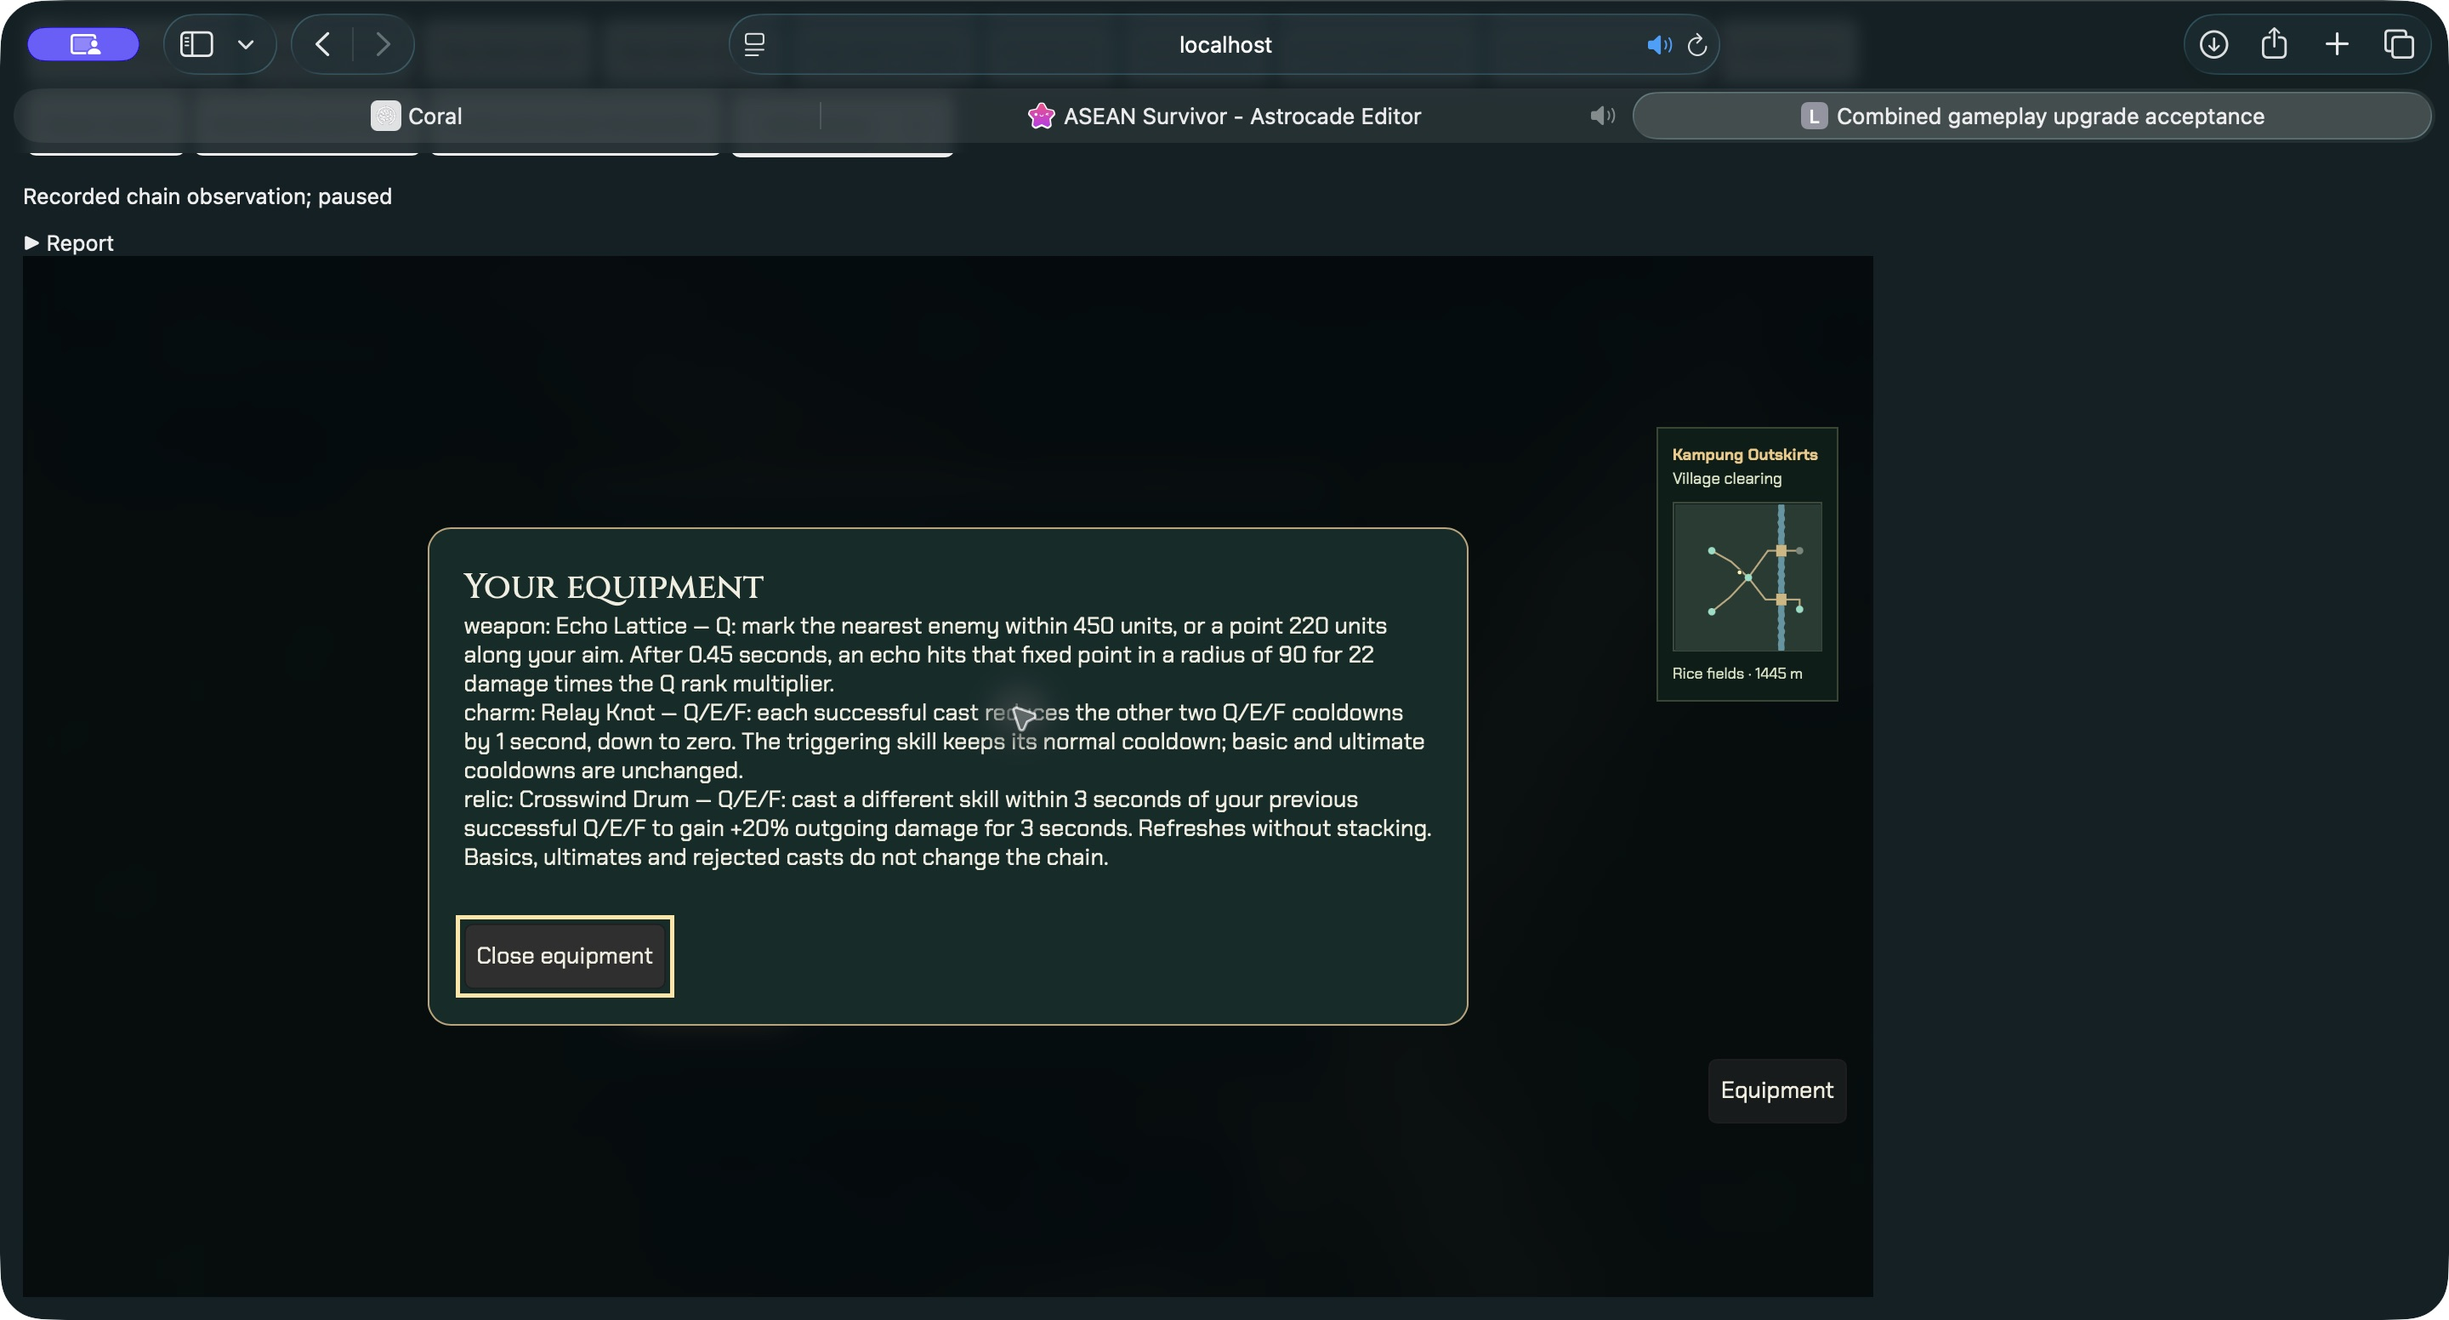
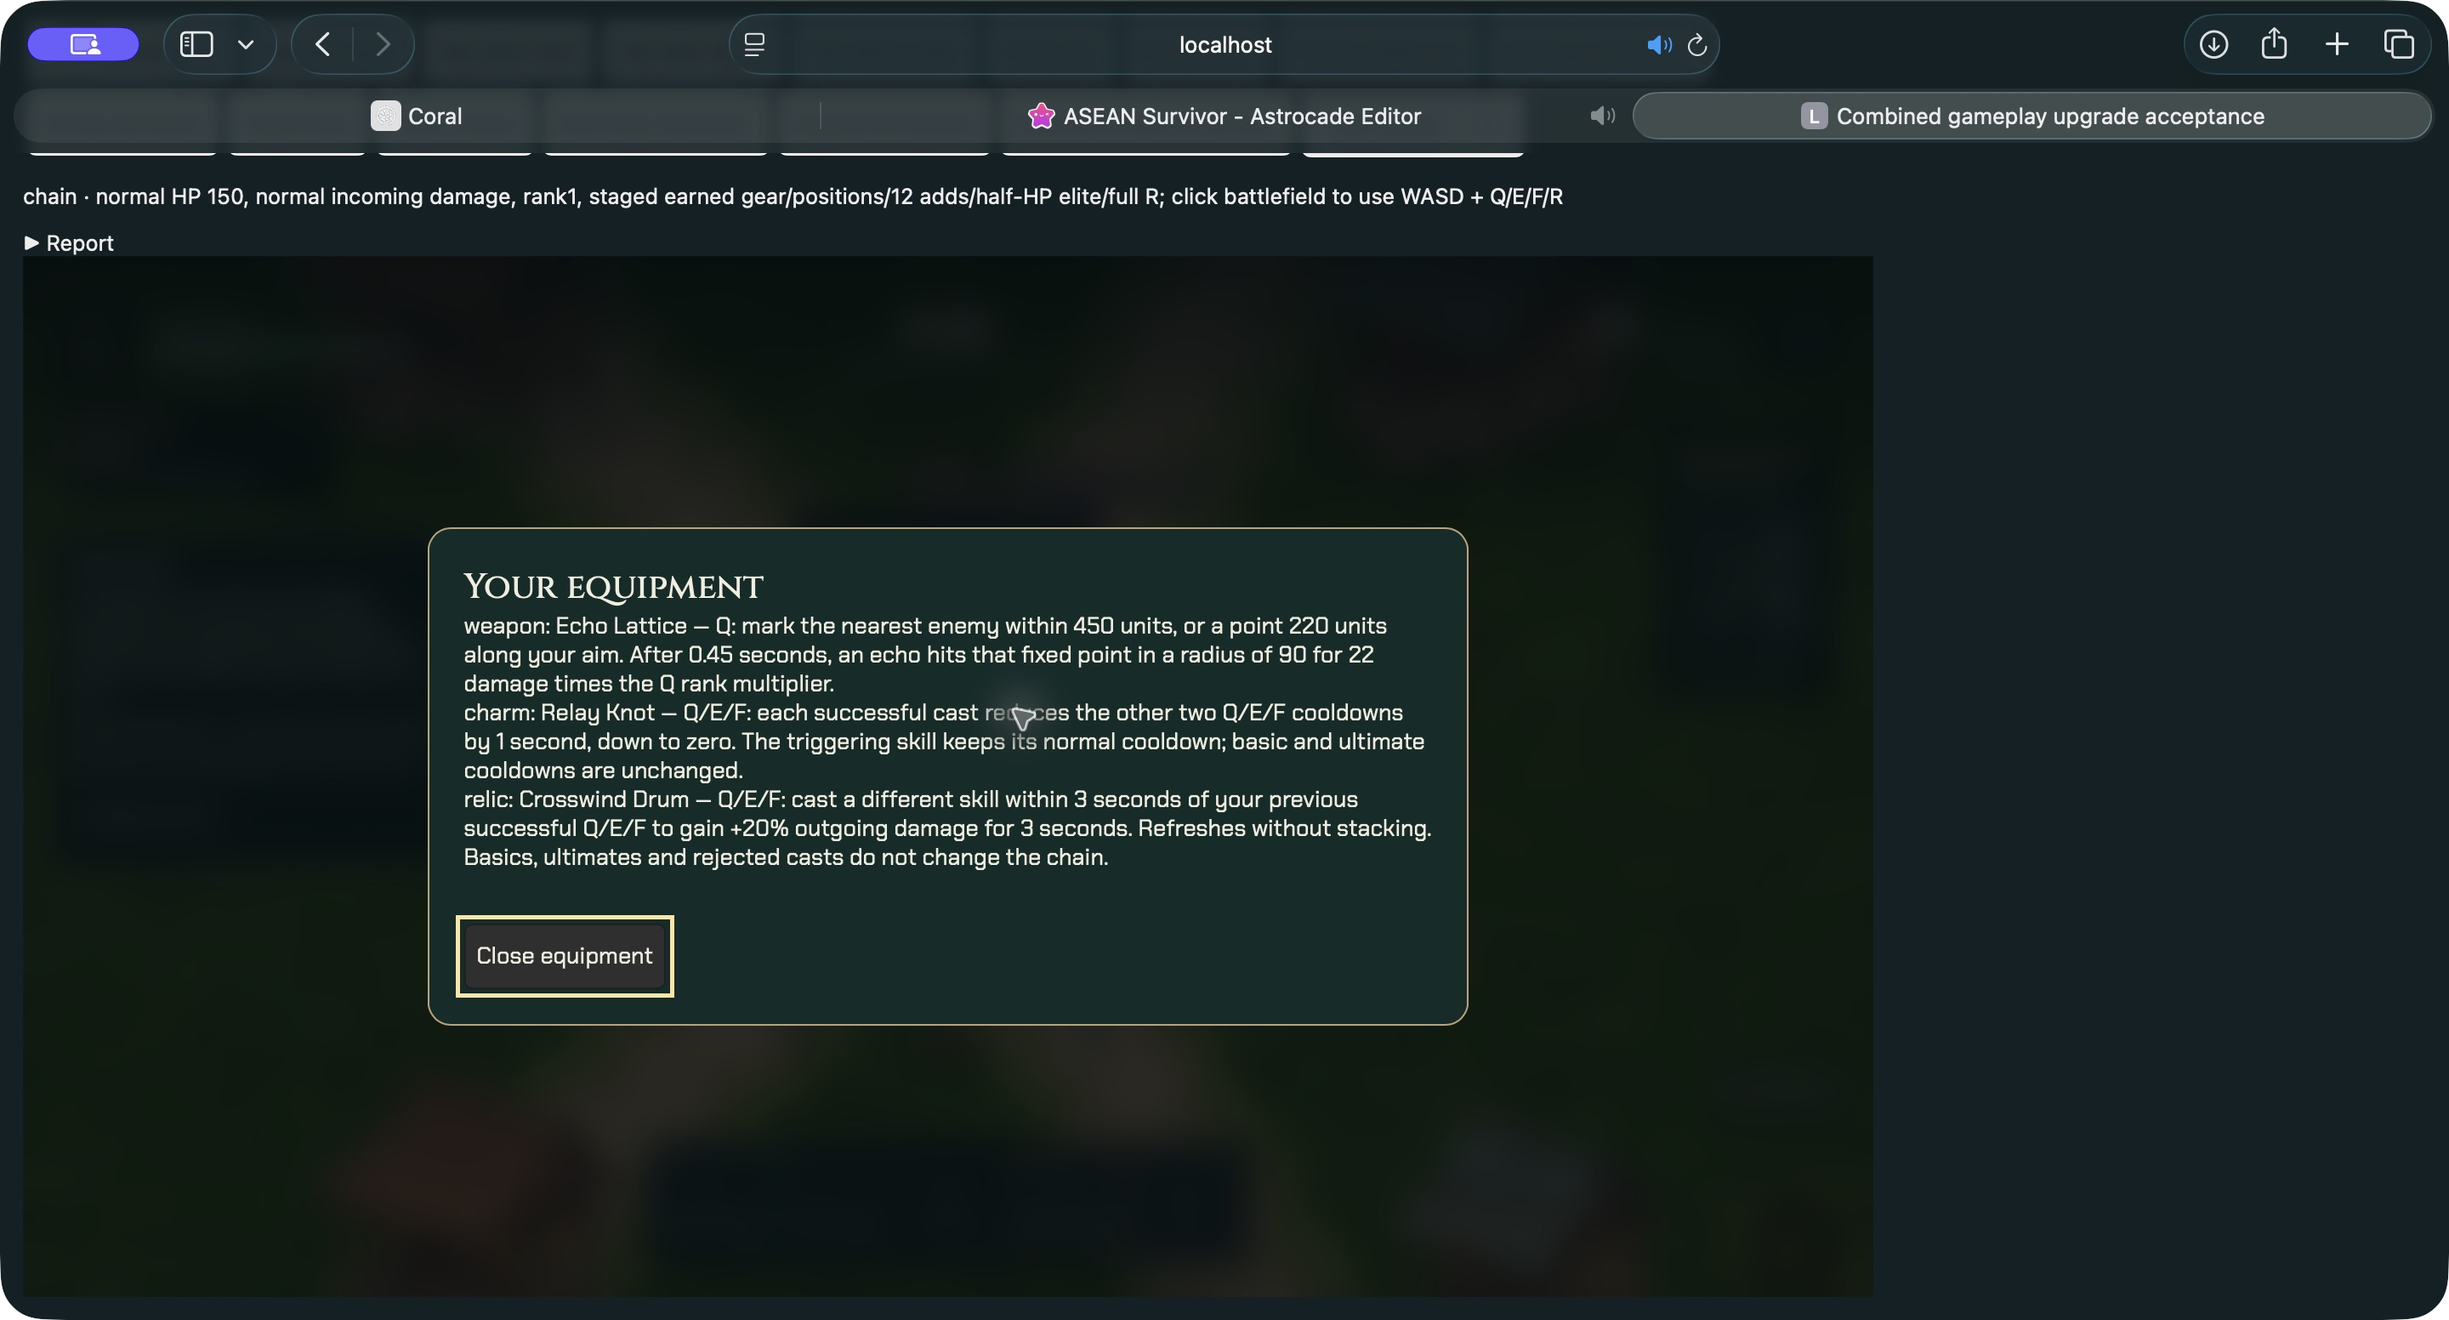
Keep active encounter controls behind modal dialogs

diff --git a/tests/gameplay-upgrade.js b/tests/gameplay-upgrade.js
@@ -26,7 +26,8 @@ function supportCompletion(){
   for(const slot of [1,2,4]){const name=slot===1?'chain':'zoning',g=build(name),event=g.encounters.hunt;event.status='available';delete event.defeated;begin('hunt');const elite=g.enemies.find(e=>e.encounter==='hunt');Object.assign(g.p,{x:0,y:0});Object.assign(elite,{x:slot===1?400:slot===2?Math.cos(Math.PI/10)*100:0,y:slot===1?0:slot===2?Math.sin(Math.PI/10)*100:-100,hp:1,stun:999});g.enemies=[elite];cast(slot);if(slot===1)g.projs=[];if(slot===2)g.orbit=null;if(slot===4)g.zones=[];step(14);check('Actual item support '+slot+' kills owned elite and completes hunt',elite.dead&&event.status==='completed',{dead:elite.dead,status:event.status});step(5);check('Repeated event updates keep exactly one consumed hunt reward',g.rewards.filter(r=>r.event==='hunt').length===1&&g.rewards.find(r=>r.event==='hunt').consumed);}
   const g=start();reward('rescue');choose('echoLattice');reward('hunt',.5);choose('bountySeal');const event=g.encounters.hunt;event.status='available';delete event.defeated;begin('hunt');const elite=g.enemies.find(e=>e.encounter==='hunt');Object.assign(g.p,{x:0,y:0,hp:50});Object.assign(elite,{x:400,y:0,hp:1,stun:999});g.enemies=[elite];g.ult=0;cast(1);g.projs=[];step(12);check('Owned item-origin elite death completes event without Bounty heal/bonus charge',event.status==='completed'&&g.p.hp===50&&g.ult===1,{hp:g.p.hp,ult:g.ult,status:event.status});
 }
-function orderAndCleanup(){const g=build('zoning'),event=g.encounters.rescue;event.status='available';begin('rescue');const elite=g.enemies.find(e=>e.elite);g.enemies=[elite];Object.assign(g.p,{x:0,y:0});Object.assign(elite,{x:220,y:0,skillT:0,hp:10000,maxHp:10000,dmg:0});step();check('Equipped rescue elite starts with charge warning',elite.attack==='charge'&&elite.windup>0);cast(2);cast(3);cast(4);const time=g.t,wind=elite.windup;click('equipmentButton');step(30);check('Inspection freezes both elite warning and item pulses',g.t===time&&elite.windup===wind&&g.fx.filter(f=>f.item==='monsoonLens'&&f.life>0).length===3);click('lootClose');step();click('pauseButton');const paused=g.t;step(30);check('Pause freezes combined event and build',g.t===paused);click('resume');step();g.pending=1;rt.openLevelUp();const upgraded=g.t;step(30);check('Upgrade overlay freezes combined event and build',g.t===upgraded);click('up0');g.st.crit=0;rt.raid.enter();check('Active event blocks raid with equipped support',!g.raid);click('eventAbandon');rt.raid.enter();step();check('Raid keeps equipment and removes abandoned event hazards and support queue',!!g.raid&&g.equipment.relic==='monsoonLens'&&!g.eprojs.some(p=>p.encounter==='rescue')&&!g.fx.some(f=>f.item)&&!g.projs.some(p=>p.origin==='item'));cast(2);cast(3);cast(4);check('Same build casts all support types inside raid',g.projs.filter(p=>p.item==='forkedConduit').length===2&&g.fx.some(f=>f.item==='undertowThread')&&g.fx.filter(f=>f.item==='monsoonLens').length===3);g.raid.won=true;g.raid.outro=0;advance(.05);check('Raid exit clears newly created support',!g.raid&&!g.fx.some(f=>f.item)&&!g.projs.some(p=>p.origin==='item'));rt.toMenu();check('Menu clears old support/event actors',!g.fx.some(f=>f.item)&&!g.enemies.some(e=>e.encounter));const fresh=start();check('Fresh run restores empty slots and available events',Object.values(fresh.equipment).every(id=>id===null)&&Object.values(fresh.encounters).every(e=>e.status==='available'));}
+function overlayAbovePrompt(id){const prompt=doc.getElementById('encounterPrompt').getBoundingClientRect(),top=doc.elementFromPoint(prompt.right-5,prompt.top+prompt.height/2);check(id+' dialog paints above the active encounter prompt',doc.getElementById(id).contains(top),{topElement:top?.id||top?.tagName});}
+function orderAndCleanup(){const g=build('zoning'),event=g.encounters.rescue;event.status='available';begin('rescue');const elite=g.enemies.find(e=>e.elite);g.enemies=[elite];Object.assign(g.p,{x:0,y:0});Object.assign(elite,{x:220,y:0,skillT:0,hp:10000,maxHp:10000,dmg:0});step();check('Equipped rescue elite starts with charge warning',elite.attack==='charge'&&elite.windup>0);cast(2);cast(3);cast(4);const time=g.t,wind=elite.windup;click('equipmentButton');overlayAbovePrompt('lootPanel');step(30);check('Inspection freezes both elite warning and item pulses',g.t===time&&elite.windup===wind&&g.fx.filter(f=>f.item==='monsoonLens'&&f.life>0).length===3);click('lootClose');step();click('pauseButton');overlayAbovePrompt('pause');const paused=g.t;step(30);check('Pause freezes combined event and build',g.t===paused);click('resume');step();g.pending=1;rt.openLevelUp();overlayAbovePrompt('levelup');const upgraded=g.t;step(30);check('Upgrade overlay freezes combined event and build',g.t===upgraded);click('up0');g.st.crit=0;rt.raid.enter();check('Active event blocks raid with equipped support',!g.raid);click('eventAbandon');rt.raid.enter();step();check('Raid keeps equipment and removes abandoned event hazards and support queue',!!g.raid&&g.equipment.relic==='monsoonLens'&&!g.eprojs.some(p=>p.encounter==='rescue')&&!g.fx.some(f=>f.item)&&!g.projs.some(p=>p.origin==='item'));cast(2);cast(3);cast(4);check('Same build casts all support types inside raid',g.projs.filter(p=>p.item==='forkedConduit').length===2&&g.fx.some(f=>f.item==='undertowThread')&&g.fx.filter(f=>f.item==='monsoonLens').length===3);g.raid.won=true;g.raid.outro=0;advance(.05);check('Raid exit clears newly created support',!g.raid&&!g.fx.some(f=>f.item)&&!g.projs.some(p=>p.origin==='item'));rt.toMenu();check('Menu clears old support/event actors',!g.fx.some(f=>f.item)&&!g.enemies.some(e=>e.encounter));const fresh=start();check('Fresh run restores empty slots and available events',Object.values(fresh.equipment).every(id=>id===null)&&Object.values(fresh.encounters).every(e=>e.status==='available'));}
 function stacking(){const g=start();reward('rescue',.999);choose('quarryHammer');reward('ward',.0);choose('stillwaterBeads');reward('hunt',.5);choose('aftershockBell');Object.assign(g.p,{x:0,y:0});g.enemies=[];step(43);cast(4);g.zones=[];const e=probe(g,300,300);check('Original three-slot bonuses remain additive at165 damage',Math.abs(strike(e)-165)<.001);}
 async function layouts(){const win=frame.contentWindow;for(const width of [320,390]){frame.style.width=width+'px';frame.style.height='844px';await new Promise(resolve=>setTimeout(resolve,120));const g=build('zoning');step();for(const id of ['pauseButton','equipmentButton','sk1','sk2','sk3','sk4']){const r=doc.getElementById(id).getBoundingClientRect();check(width+' '+id+' remains inside viewport with44px target',r.left>=0&&r.right<=win.innerWidth+.01&&r.top>=0&&r.bottom<=win.innerHeight+.01&&r.width>=44&&r.height>=44,{bounds:{x:r.x,y:r.y,width:r.width,height:r.height},viewport:[win.innerWidth,win.innerHeight]});}const old=g.p.x;win.dispatchEvent(new win.KeyboardEvent('keydown',{key:'d',code:'KeyD',bubbles:true}));step(4);win.dispatchEvent(new win.KeyboardEvent('keyup',{key:'d',code:'KeyD',bubbles:true}));check(width+' keyboard movement works with equipped build',g.p.x>old);const canvas=doc.querySelector('canvas'),x=win.innerWidth*.18,y=win.innerHeight*.65;canvas.dispatchEvent(new win.PointerEvent('pointerdown',{pointerId:31,pointerType:'touch',clientX:x,clientY:y,bubbles:true}));canvas.dispatchEvent(new win.PointerEvent('pointermove',{pointerId:31,pointerType:'touch',clientX:x+45,clientY:y,bubbles:true}));g.cds[3]=0;doc.getElementById('sk3').click();step(4);canvas.dispatchEvent(new win.PointerEvent('pointerup',{pointerId:31,pointerType:'touch',clientX:x+45,clientY:y,bubbles:true}));check(width+' simultaneous touch movement and F creates Undertow',g.fx.some(f=>f.item==='undertowThread'));g.paused=true;}frame.style.width='1280px';frame.style.height='720px';}
 async function readableMobile(){frame.style.width='390px';frame.style.height='844px';await new Promise(resolve=>setTimeout(resolve,120));const g=start();begin('hunt');const elite=g.enemies.find(e=>e.elite);g.enemies=[elite];Object.assign(g.p,{x:0,y:0});Object.assign(elite,{x:50,y:200,hp:elite.maxHp*.5,skillT:0});step();g.paused=true;rt.scene.update(0,0);const label=rt.scene.children.list.find(o=>o.type==='Text'&&o.visible&&o.text.includes('Briarback · Thornbound'));const screenFont=parseFloat(label.style.fontSize)*label.scaleY*rt.scene.cameras.main.zoom;check('390px elite BURST/ENRAGED label keeps12CSSpx minimum text',screenFont>=12,{screenFont,zoom:rt.scene.cameras.main.zoom,labelScale:label.scaleY,text:label.text});}

diff --git a/ui.css b/ui.css
@@ -17,7 +17,7 @@ h1,h2,h3,p{margin:0}h1,h2,h3{font-family:var(--display);font-weight:500}
 .eyebrow,.lbl{font-size:11px;font-weight:600;letter-spacing:.2em;text-transform:uppercase;color:var(--muted)}
 .eyebrow{color:var(--ember)}.eyebrow::before{content:'◆';font-size:8px;margin-right:12px}
 .sub{font-size:15px;line-height:1.7;color:var(--muted);margin:12px 0 22px;max-width:52ch}
-.ov{position:fixed;inset:0;display:grid;place-items:center;padding:24px;overflow:auto;background:rgba(3,10,13,.8);backdrop-filter:blur(12px)}
+.ov{position:fixed;inset:0;z-index:20;display:grid;place-items:center;padding:24px;overflow:auto;background:rgba(3,10,13,.8);backdrop-filter:blur(12px)}
 .card{width:100%;max-width:920px;padding:36px;background:var(--panel);border:1px solid var(--line);border-top:2px solid var(--ember);box-shadow:0 24px 100px #0008}
 .card h2{font-size:clamp(26px,4vw,40px);margin-top:12px;line-height:1.2}
 .row{display:flex;flex-wrap:wrap;gap:12px;align-items:center;margin-top:26px}

diff --git a/docs/gameplay-upgrade.md b/docs/gameplay-upgrade.md
@@ -6,13 +6,17 @@ Scope: [spec #8](https://github.com/miooor/aseansurvivor/issues/8), dependent [t
 
 Use the repository container workflow and open `/tests/gameplay-upgrade.html`. Select **Run combined checks**, keep the tab active, require PASS, then **Download report**. Reload the whole harness after source changes: a development iframe can retain an old runtime reference after HMR. The fixture uses the agreed development runtime to stage deterministic conditions, while event activation, track investigation, reward selection, skills and overlays use actual HTML controls. It introduces no production test API, dependency or artwork.
 
-The focused Safari run on 2026-11-15 passes **46/46 checks**, with no captured runtime errors: [downloaded JSON](evidence/gameplay-upgrade/combined-green.json). It combines support-item kills of an owned hunt elite by Echo, Fork and Lens, once-only completion/reward state, absence of recursive Bounty heal/bonus charge, Relay plus Crosswind damage, the original additive three-slot bonus, charge-first rescue behavior with equipped skills, inspection/pause/upgrade freezes, active-event raid arbitration, support inside raids, transition/menu/new-run cleanup, progression-save preservation, 320/390-pixel target bounds, keyboard movement and simultaneous synthetic touch movement/F casting. Individual exact item/all-hero and elite action contracts remain covered by their linked focused suites; this fixture adds the integrated seam.
+The focused Safari run on 2026-11-15 passes **49/49 checks**, with no captured runtime errors: [downloaded JSON](evidence/gameplay-upgrade/combined-green.json). It combines support-item kills of an owned hunt elite by Echo, Fork and Lens, once-only completion/reward state, absence of recursive Bounty heal/bonus charge, Relay plus Crosswind damage, the original additive three-slot bonus, charge-first rescue behavior with equipped skills, inspection/pause/upgrade freezes, active-event raid arbitration, support inside raids, transition/menu/new-run cleanup, progression-save preservation, 320/390-pixel target bounds, keyboard movement and simultaneous synthetic touch movement/F casting. Individual exact item/all-hero and elite action contracts remain covered by their linked focused suites; this fixture adds the integrated seam.
 
 Failure cases were recorded before writing the fixture. Two early runs exposed fixture timing assumptions: a fixed number of updates does not imply an exact elapsed simulation duration because casts apply cosmetic hit-stop. Clock-based advancement now observes Echo and raid completion, retaining damage/lifecycle expectations. [Preserved timing diagnostic](evidence/gameplay-upgrade/fixture-cleanup-timing.json).
 
 The broad UI harness’s initial idle-facing loop previously allowed normal basic/automatic combat while waiting between directions. A controlled browser reproduction shows Jet’s legitimate basic at `castT: 0.27`, slot 0, rendering `hero-motion-rempit` frame 32, so an idle-only `hero-directions` assertion is false. Moving the existing combat isolation before the first wait makes all eight unchanged idle expectations pass; all 574 broad assertions remain. [Repeatable diagnosis](evidence/gameplay-upgrade/idle-baseline-diagnostic.json), **Diagnose idle baseline** in the fixture. No production animation changed.
 
 Mobile review found real presentation failures. Safari measured the 44-pixel pause control at 43.98896789550781 CSS pixels under its fractional browser zoom; its base and compact widths/heights are now 45, retaining the ≥44 assertion. [Red report](evidence/gameplay-upgrade/pause-target-red.json). Elite labels were 14 world pixels, only 6.552 CSS pixels at the 390-pixel camera zoom. Their scale now compensates for zoom, keeping 14 CSS pixels before any external host scaling. The new ≥12 rendered-CSS-pixel assertion failed before that change and passes after it. [Label red](evidence/gameplay-upgrade/mobile-label-red.json), [before screenshot](evidence/gameplay-upgrade/mobile-label-before.png), [readable mobile warning](evidence/gameplay-upgrade/mobile-warning.png). The preview positions the elite below the event prompt so actual world text can be inspected; the prompt/HUD is not hidden.
+
+Inspection during an active event exposed the encounter prompt painting over the equipment dialog. The browser’s `elementFromPoint` at the actual overlap returned `encounterPrompt`, confirming the screenshot. The shared normal `.ov` overlay now has z-index 20, matching the existing Astrocade layer; equipment, pause and upgrade checks require their real dialogs to paint above the active prompt. [Red report](evidence/gameplay-upgrade/modal-order-red.json), [before screenshot](evidence/gameplay-upgrade/modal-order-before.png). No event or reward rules changed.
+
+Final visual presets keep the live event prompt visible, wait for the ordinary discovery banner to expire and pause inside the harmless warning window. [Armoured fan](evidence/gameplay-upgrade/fan-warning.png), [enraged burst](evidence/gameplay-upgrade/burst-warning.png), [390-pixel burst](evidence/gameplay-upgrade/mobile-warning.png), [actual sampled weapon offer](evidence/gameplay-upgrade/weapon-reward.png), [corrected Lens first pulse with the zoning build](evidence/gameplay-upgrade/lens-corrected.png). Lens emits its name once at cast time and retains each pulse ring.
 
 ## Reproducing the three build observations
 
